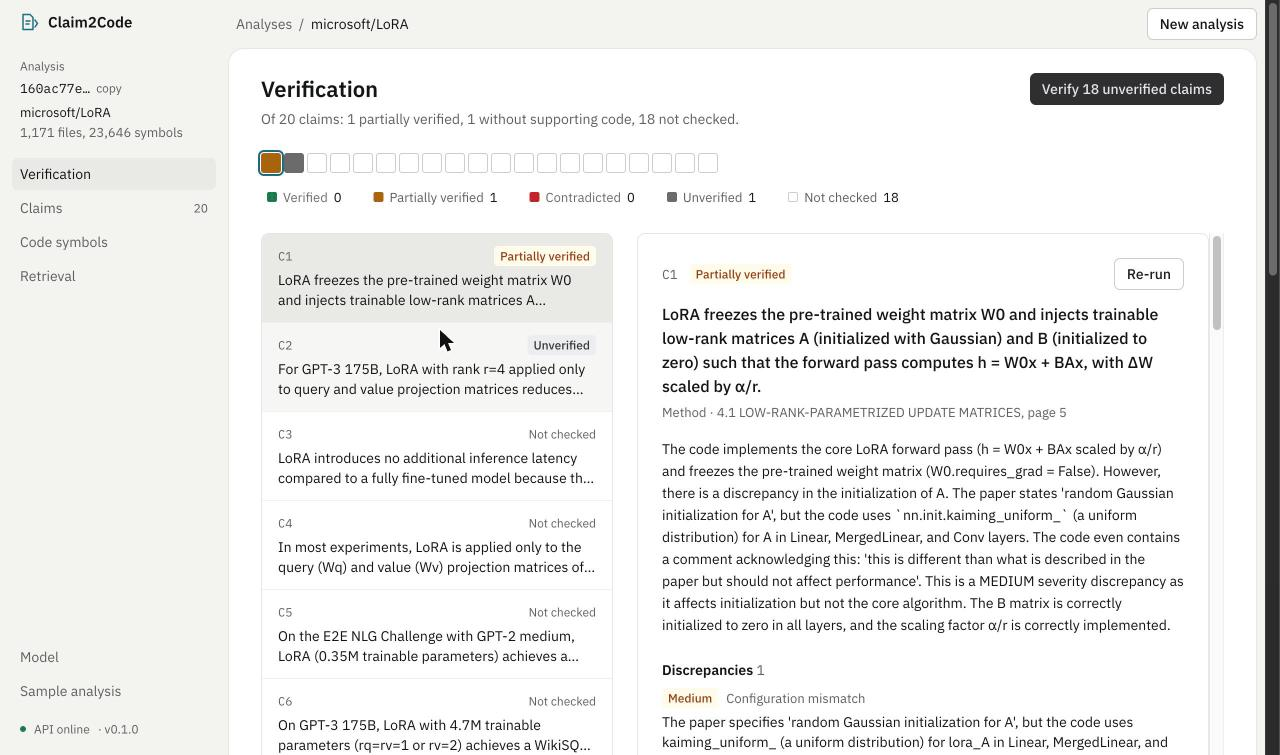
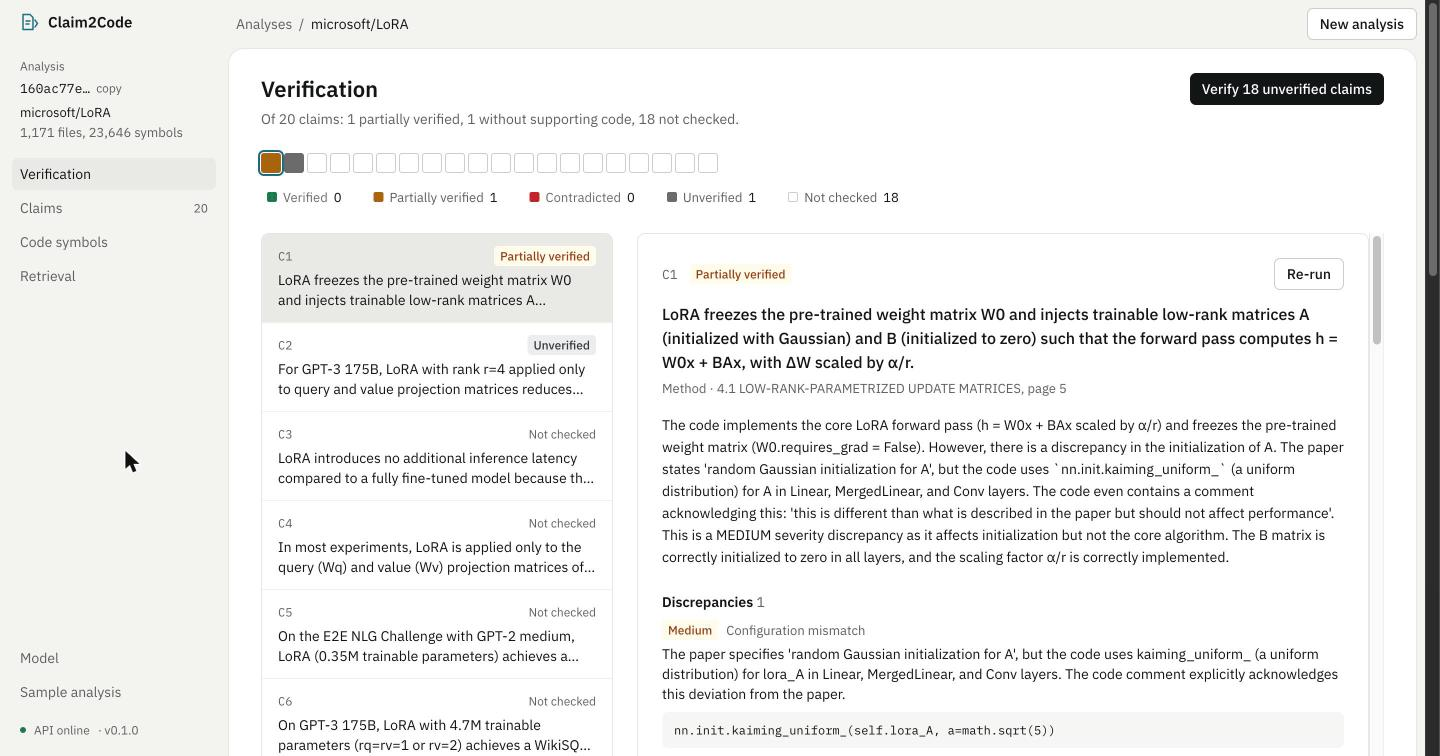
README: screenshots with the cited paper page

diff --git a/README.md b/README.md
@@ -9,9 +9,9 @@ metrics).
 
 ![Verification of a LoRA claim: partially verified, with the discrepancy explained](docs/screenshots/verification.jpg)
 
-| The code it cited | A reference test of that code |
+| The passage it cited, highlighted in the PDF | The code it cited, and a reference test of it |
 |---|---|
-| ![Cited code: lora_A is initialised with kaiming_uniform_, not a Gaussian as the paper says](docs/screenshots/code-evidence.jpg) | ![Reference test: all 7 inputs gave the same output from Linear.forward and from a reference written from the paper](docs/screenshots/reference-test.jpg) |
+| ![The cited sentence on Gaussian initialisation, highlighted on page 4 of the paper](docs/screenshots/paper-evidence.jpg) | ![Cited code using kaiming_uniform_ for lora_A, and a reference test where all 7 inputs gave the same output](docs/screenshots/code-and-test.jpg) |
 
 Above: [microsoft/LoRA](https://github.com/microsoft/LoRA) checked with a local
 27B model. The forward pass matches the paper, and a reference test confirms
